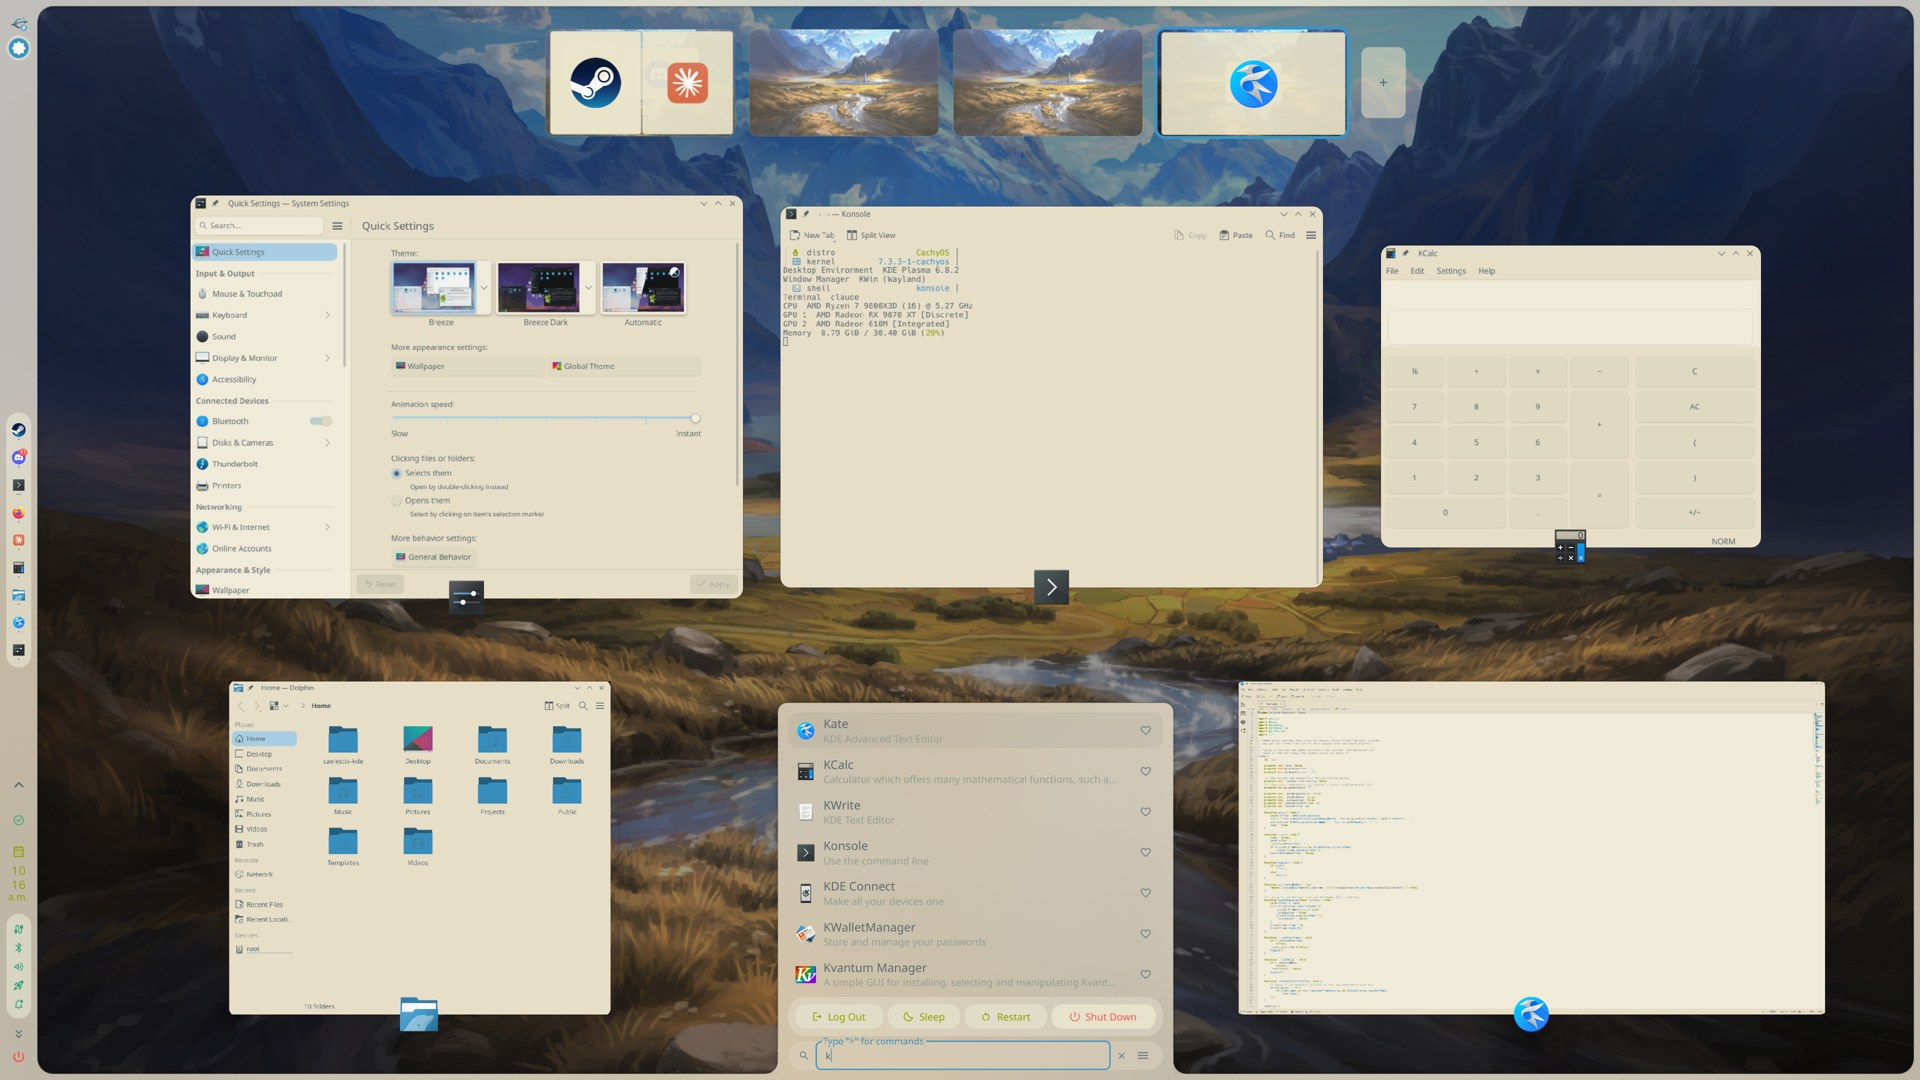
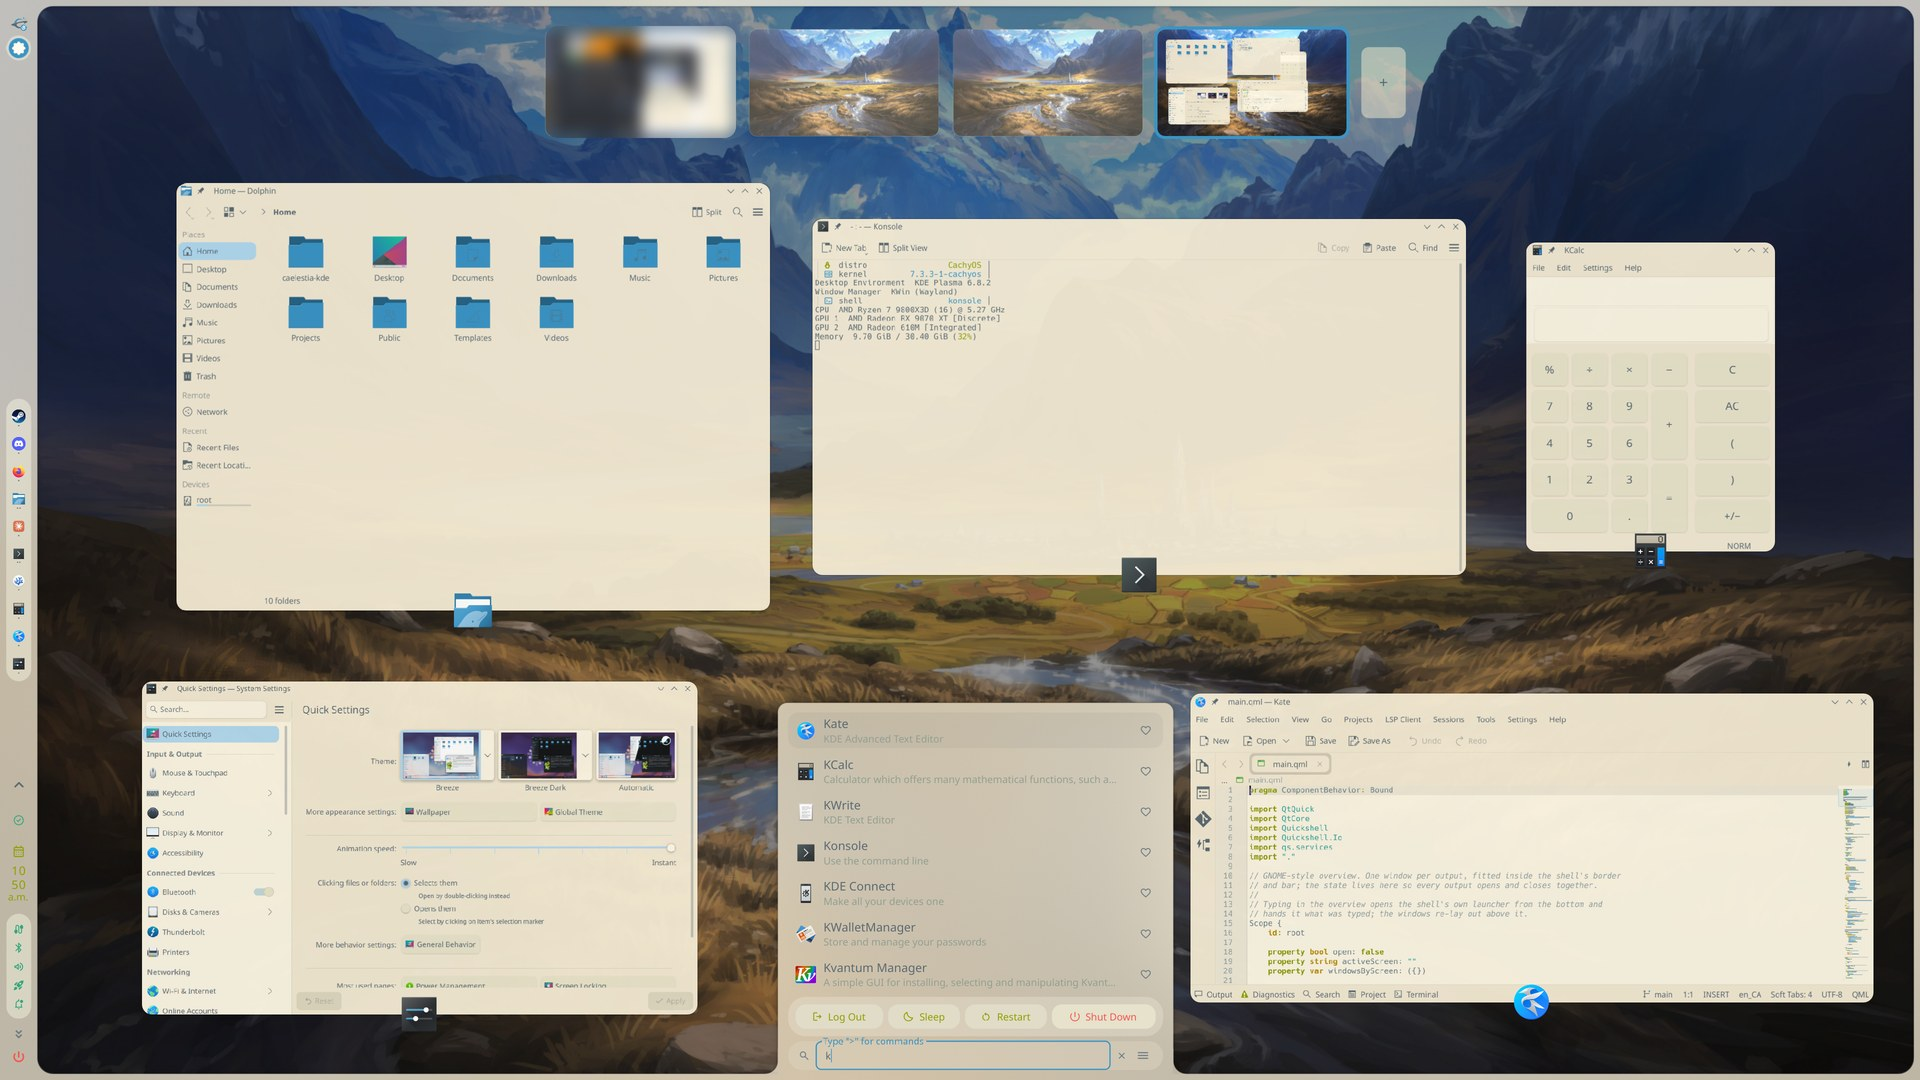
Show live window previews in workspace thumbnails
Workspace thumbnails now work like GNOME's: each is a miniature of its
desktop, with live, scaled-down previews of its windows where they sit
instead of app icons on tiles. Minimised windows are left out and each
thumbnail previews at most 8 windows.

The current workspace's thumbnail mirrors the big cards' previews
rather than opening a second stream of the same window, which got no
frame until that window next repainted.

Rename the setting to "Show windows in workspace thumbnails" and
refresh the README text and screenshots.

diff --git a/WorkspaceStrip.qml b/WorkspaceStrip.qml
@@ -5,17 +5,26 @@ import Quickshell
 import Quickshell.Widgets
 import Caelestia.Config
 import qs.components
+import qs.components.images
 import qs.services
 
-// The row of workspace thumbnails across the top. Each one shows the wallpaper
-// and a miniature of its windows; windows dragged from the grid drop onto them.
+// The row of workspace thumbnails across the top. Each one is a small copy of
+// that desktop: the wallpaper with live, scaled-down previews of its windows
+// where they sit. Windows dragged from the grid drop onto them.
 Item {
     id: root
 
     property real s: 1
     property ShellScreen screen
     property int activeWsId: 1
+    /// Draw the windows in each thumbnail.
     property bool showIcons: true
+    /// Previews stream only while the overview is open.
+    property bool live: true
+    /// Most windows previewed per thumbnail: each is its own stream.
+    property int maxPreviews: 8
+    /// The big cards' previews by address, for the current workspace.
+    property var cardPreviews: ({})
     property bool dragging: false
     property var windowsOn: wsId => []
 
@@ -86,11 +95,18 @@ Item {
                         opacity: thumb.active ? 1 : 0.75
                     }
 
-                    // Miniature windows, placed where they sit on the screen.
+                    // Miniature windows, placed where they sit on the screen,
+                    // bottom of the stack first. Minimised windows are not on
+                    // screen, so they are left out.
                     Repeater {
-                        model: thumb.wins
+                        model: {
+                            if (!root.showIcons)
+                                return [];
+                            const shown = thumb.wins.filter(w => !w.minimized);
+                            return shown.slice(Math.max(0, shown.length - root.maxPreviews));
+                        }
 
-                        StyledRect {
+                        StyledClippingRect {
                             id: mini
 
                             required property var modelData
@@ -101,17 +117,34 @@ Item {
                             y: Math.max(0, (modelData.y - root.screen.y) * sy)
                             width: Math.min(frame.width - x, Math.max(6, modelData.width * sx))
                             height: Math.min(frame.height - y, Math.max(4, modelData.height * sy))
-                            radius: Math.max(2, Tokens.rounding.small * 0.6)
-                            color: Qt.alpha(Colours.palette.m3surfaceContainerHigh, 0.92)
-                            border.width: 1
-                            border.color: Qt.alpha(Colours.palette.m3outline, 0.5)
+                            radius: Math.max(2, Tokens.rounding.small * 0.5)
+                            // A plain fill only until the first frame arrives.
+                            color: mini.cardItem !== null || miniPreview.hasStream ? "transparent" : Colours.tPalette.m3surfaceContainerHigh
 
-                            IconImage {
+                            readonly property Item cardItem: thumb.active ? (root.cardPreviews[modelData.address] ?? null) : null
+
+                            // The current workspace's windows are already
+                            // streaming to their big cards: show those.
+                            ShaderEffectSource {
+                                anchors.fill: parent
+                                visible: mini.cardItem !== null
+                                sourceItem: mini.cardItem
+                                live: true
+                                hideSource: false
+                            }
+
+                            WindowPreview {
+                                id: miniPreview
+
                                 anchors.centerIn: parent
-                                visible: root.showIcons && mini.width > 14 && mini.height > 14
-                                implicitSize: Math.min(mini.width, mini.height) * 0.55
-                                asynchronous: true
-                                source: WinIcons.sourceForClient(mini.modelData)
+                                width: parent.width + 2
+                                height: parent.height + 2
+                                visible: mini.cardItem === null
+                                active: root.live && mini.cardItem === null && mini.modelData.address !== ""
+                                address: mini.modelData.address ?? ""
+                                fallbackIcon: WinIcons.sourceForClient(mini.modelData)
+                                fallbackScale: 0.45
+                                sourceAspect: mini.modelData.width > 0 && mini.modelData.height > 0 ? mini.modelData.width / mini.modelData.height : 16 / 9
                             }
                         }
                     }

diff --git a/OverviewWindow.qml b/OverviewWindow.qml
@@ -66,6 +66,27 @@ StyledWindow {
         return Visibilities.exclusionsFor(screen);
     }
     property bool dragging: false
+    /// The big cards' preview items by window address. The current
+    /// workspace's thumbnail mirrors these: a second stream of a window that is
+    /// already streaming gets no frame until the window next repaints.
+    property var cardPreviews: ({})
+
+    function _setCardPreview(address: string, item: Item): void {
+        if (!address || !item)
+            return;
+        const map = Object.assign({}, cardPreviews);
+        map[address] = item;
+        cardPreviews = map;
+    }
+
+    /// Only if it is still this card's: a rebuilt card may have taken over.
+    function _clearCardPreview(address: string, item: Item): void {
+        if (!address || cardPreviews[address] !== item)
+            return;
+        const map = Object.assign({}, cardPreviews);
+        delete map[address];
+        cardPreviews = map;
+    }
 
     // ---- Pointer while the launcher is open --------------------------------
     // The open launcher covers the screen with the shell's own window to catch
@@ -539,6 +560,8 @@ StyledWindow {
             screen: win.screen
             activeWsId: win.activeWsId
             showIcons: win.showThumbIcons
+            live: win.shown
+            cardPreviews: win.cardPreviews
             dragging: win.dragging
             windowsOn: wsId => win.windowsOn(wsId)
             onWorkspaceClicked: wsId => {
@@ -681,6 +704,8 @@ StyledWindow {
                     }
                     onActivated: win.activateWindow(modelData.address)
                     onDragActiveChanged: win.dragging = dragActive
+                    Component.onCompleted: win._setCardPreview(modelData.address, previewItem)
+                    Component.onDestruction: win._clearCardPreview(modelData.address, previewItem)
                 }
             }
 

diff --git a/WindowCard.qml b/WindowCard.qml
@@ -31,6 +31,9 @@ Item {
     readonly property real aspect: client && client.width > 0 && client.height > 0 ? client.width / client.height : 16 / 10
     readonly property real iconSize: Math.round(Math.max(28, Math.min(56, Math.min(width, height) * 0.22)) * Math.min(1.2, s))
     property bool closing: false
+    /// The live preview, so the workspace strip can mirror it instead of
+    /// opening a second stream of the same window.
+    readonly property Item previewItem: preview
 
     signal activated()
 

diff --git a/README.md b/README.md
@@ -9,7 +9,7 @@ along the top. Start typing and the shell's launcher rises from the bottom while
 ## Features
 
 - **Live window previews** of the current workspace, laid out to fill the screen inside the shell's border and bar.
-- **Workspace strip** along the top: click a thumbnail to switch, drag a window onto one to move it,
+- **Workspace strip** along the top, each thumbnail a live miniature of that desktop with its windows where they sit. Click a thumbnail to switch, drag a window onto one to move it,
   `+` to add a workspace, and the × on a hovered thumbnail (or a middle-click) to remove one.
 - **Type to search.** Typing opens the shell's own launcher with what you typed. The windows flow
   around it, above and to either side, and reflow as the results change.
@@ -19,7 +19,7 @@ along the top. Start typing and the shell's launcher rises from the bottom while
 
 ![Typing opens the launcher; the windows move above and beside it](screenshots/launcher-flow.jpg)
 
-![Workspace thumbnails with the current workspace highlighted and a + button to add one](screenshots/workspaces.png)
+![Workspace thumbnails showing live miniatures of each desktop, the current one highlighted, and a + button to add one](screenshots/workspaces.png)
 
 ## Requirements
 
@@ -67,7 +67,7 @@ Found in **Settings → System & Services → Caelestia Plugins**, under GNOME-I
 | --- | --- | --- |
 | Replace the built-in overview (Meta+Tab) | On | Meta+Tab opens this overview instead of the shell's own. |
 | Meta opens the overview | On | Meta opens this overview instead of the launcher; type to get the launcher. |
-| Show app icons in workspace thumbnails | On | Draws each workspace's app icons on its thumbnail. |
+| Show windows in workspace thumbnails | On | Draws live previews of each workspace's windows on its thumbnail, up to 8 per workspace. |
 
 ## IPC
 
